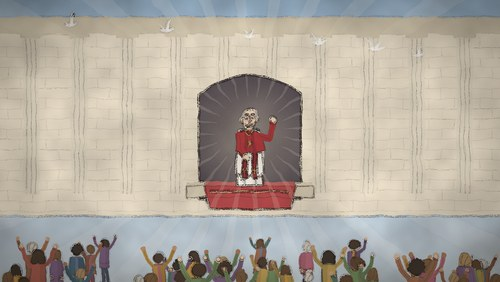
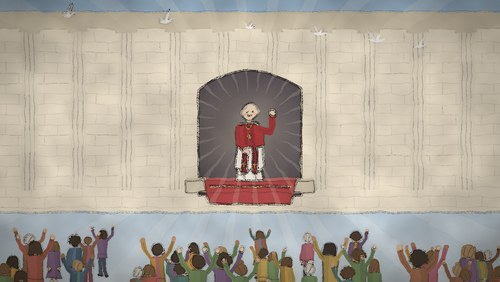
Videoclip: Papa genérico y armónico; lavatorio en plano de manos
- pope(): rostro simple como el resto de los personajes (sin caricatura)
- Lavatorio: primer plano de las manos con el aguamanil dorado, el pie en la jofaina y el paño
- Coliseo, balcón y papamóvil con cámaras más suaves

Claude-Session: https://claude.ai/code/session_017yjxTLj9gP769SUQtoivV1

diff --git a/videoclip/scenes1.js b/videoclip/scenes1.js
@@ -256,42 +256,60 @@
   // ================================================================= E2 · L6a  el siervo de los siervos de Dios (55.5) — Jueves Santo: el lavatorio de los pies
   // (Jueves Santo 2026, San Juan de Letrán: León XIV lavó los pies a 12 sacerdotes con una jarra dorada y un paño blanco)
   S.push({
-    id: 'lavatorio', at: 55.5, cam: { x0: 30, y0: -80, z0: 1.0, x1: -30, y1: -110, z1: 1.08, ease: 'inOutSine' },
+    id: 'lavatorio', at: 55.5, cam: { x0: -20, y0: 10, z0: 1.0, x1: 20, y1: -10, z1: 1.07, ease: 'inOutSine' },
     build() {
-      let cols = '';
-      for (let i = 0; i < 8; i++) { const x = -120 + i * 300; cols += rect(x, 60, 80, 820, '#e9dcc4') + ink(`M${x + 20},70 L${x + 20},880 M${x + 40},70 L${x + 40},880 M${x + 60},70 L${x + 60},880`, 1.2, .3) + rect(x - 14, 50, 108, 30, '#d8c8a8') + (i < 7 ? path(`M${x + 80},300 Q${x + 190},160 ${x + 300},300 L${x + 300},320 Q${x + 190},185 ${x + 80},320Z`, '#d8c8a8') : ''); }
-      let wins = ''; for (let i = 0; i < 7; i++) wins += windowBox(70 + i * 300, 110, 70, 150, { glass: '#f7d98a', frame: '#e9dcc4', arch: true });
-      // sacerdotes en los bancos del fondo (esperan su turno)
-      const pews = [...Array(12)].map((_, i) => person(-120 + i * 190, 900, 250, { color: '#f7f4ee', robe: true, pose: 'pray', skin: C.skin[i % 5], hair: C.hair[i % 6], style: ['short', 'bald', 'short', 'curly'][i % 4] })).join('') +
-        rect(-300, 800, W + 600, 30, '#7a5534') + rect(-300, 830, W + 600, 120, '#8a6040') + ink('M-300,800 L2220,800 M-300,830 L2220,830', 1.8, .6);
-      // sacerdote sentado de perfil, con el pie descalzo sobre la jofaina
-      const alb = 'M548,600 Q575,548 628,552 Q668,566 676,640 L672,776 L790,772 Q812,776 814,800 L842,958 L792,966 L770,826 L548,832Z';
-      const priest = rect(470, 520, 26, 330, '#7a5534') + rect(470, 820, 250, 22, '#7a5534') + rect(480, 842, 16, 150, '#5a3b26') + rect(700, 842, 16, 150, '#5a3b26') +
-        path(alb, '#f7f4ee') + path('M640,560 Q668,566 676,640 L672,776 L700,776 L700,640Z', '#e3ddd1', 'opacity=".7"') + ink(alb, 1.8, .6) + ink('M600,620 Q590,720 600,820 M700,790 Q760,800 800,960', 1.3, .4) +
-        ellipse(842, 978, 42, 13, C.skin[1]) + ink('M806,978 q36,-16 76,-2', 1.4, .6) + rect(590, 500, 30, 60, C.skin[1]) +
-        circle(606, 470, 46, C.skin[1]) + path('M562,468 Q560,418 606,414 Q650,414 652,450 Q620,432 592,446 Q576,460 562,468Z', C.hair[0]) + path('M650,470 L668,486 L650,494Z', C.skin[1]) + circle(630, 462, 3, INK) + ink('M628,500 q10,4 18,-2', 1.4, .6) +
-        poly([[620, 610], [660, 700], [730, 760]], '#f7f4ee', 30) + circle(740, 762, 16, C.skin[1]);
-      const basin = ellipse(860, 1000, 150, 40, '#c9a24a') + ellipse(860, 988, 130, 28, '#8fb8d8') + ink('M710,1000 Q860,1070 1010,1000', 2, .6) + ink('M760,990 q20,-6 40,0 M880,996 q20,-6 40,0', 1.4, .5);
-      return layer(0, rect(-300, -300, W + 600, H + 600, '#b89a70') + glow(960, 200, 1000, '#ffe6b0', .8)) +
-        layer(.15, wins + `<g id="lbeams">${rays(960, -300, 200, 1800, 10, '#fff4d0', .16, 4)}</g>`) +
-        layer(.3, paper(cols) + rect(-300, 870, W + 600, 400, '#c9b28a')) +
-        layer(.5, pews) +
-        layer(.85, rect(-300, 950, W + 600, 300, '#c9b28a') + [...Array(6)].map((_, i) => ink(`M-300,${960 + i * 24} L2220,${960 + i * 24}`, 1.2, .25)).join('') + priest + basin + `<g id="popew"></g>`);
+      const skinP = '#e2b690', skinH = '#f1d3b6';
+      // fondo cálido de la basílica, desenfocado
+      let bokeh = ''; const r = RNG(561);
+      for (let i = 0; i < 26; i++) bokeh += circle(r.range(-200, W + 200), r.range(40, 620), r.range(20, 70), r.pick(['#ffe2a0', '#fff0c8', '#f7c97a']), `opacity="${f1(r.range(.18, .45))}"`);
+      const cols = [...Array(6)].map((_, i) => rect(-100 + i * 380, -100, 110, 900, '#d9c4a0', 'opacity=".55"')).join('');
+      // mantel de lino bajo la jofaina
+      const linen = path('M-300,760 Q960,700 2220,760 L2220,1400 L-300,1400Z', '#f4efe4') + ink('M-300,760 Q960,700 2220,760', 1.6, .4) + [...Array(8)].map((_, i) => ink(`M${-100 + i * 300},${800 + (i % 2) * 20} q60,40 30,120`, 1.2, .25)).join('');
+      // jofaina dorada con agua
+      const basin = ellipse(900, 900, 400, 96, '#c9962e') + ellipse(900, 884, 378, 78, '#e0b040') + ellipse(900, 892, 340, 60, '#9cc6de') + ink('M500,900 Q900,1040 1300,900', 2, .6) + ink('M522,884 Q900,780 1278,884', 1.4, .5) +
+        `<g id="ripples"></g>`;
+      // pierna y pie descalzo del sacerdote (alba blanca arriba)
+      const foot = path('M600,500 Q640,640 676,790 Q640,830 652,872 Q700,900 820,900 Q960,904 1018,892 Q1052,884 1046,862 Q1040,846 1010,846 Q930,842 860,832 Q780,818 752,784 Q724,640 700,500Z', skinP) +
+        ink('M600,500 Q640,640 676,790 Q640,830 652,872 Q700,900 820,900 Q960,904 1018,892 Q1052,884 1046,862 Q1040,846 1010,846 Q930,842 860,832 Q780,818 752,784 Q724,640 700,500', 1.8, .6) +
+        [0, 1, 2, 3].map(i => ink(`M${1010 - i * 20},${850 + i * 2} q6,14 0,30`, 1.3, .45)).join('') + ink('M700,812 q30,10 60,4', 1.2, .4) +
+        path('M520,-200 L760,-200 L780,520 Q740,560 690,540 Q630,560 580,520Z', '#fbf9f3') + ink('M580,520 Q630,560 690,540 Q740,560 780,520 M640,0 Q650,300 630,520 M720,0 Q715,300 740,520', 1.6, .5);
+      // estola dorada del Papa asomando por la derecha
+      const stole = path('M1720,-100 L1820,-100 L1830,700 L1730,700Z', '#e0b040') + cross(1776, 380, 70, '#fbf3d6', 10) + ink('M1720,-100 L1730,700 M1820,-100 L1830,700', 1.6, .6) + ink('M1740,660 L1818,660', 2.4, .6);
+      return layer(0, rect(-300, -300, W + 600, H + 600, '#b8905e') + glow(500, 200, 900, '#ffe6b0', .7)) +
+        layer(.15, cols + bokeh) +
+        layer(.5, linen) +
+        layer(.7, basin + foot) +
+        layer(.9, stole + `<g id="hands"></g>`);
     },
     update(t, u, p, s) {
-      const pour = (Math.sin(u * 2.2) + 1) / 2;
-      const px = 1150, py = 1050, h = 620, uu = h / 100;
-      let g2 = pope(px, py, h, { pose: 'wash', alb: true, turn: .55, flip: true });
-      // jarra dorada en la mano derecha, inclinándose, y el chorro de agua sobre el pie
-      const jx = px - 25.8 * uu - 10, jy = py - 40 * uu - 30 + pour * 8, ang = 20 + pour * 38;
-      g2 += `<g transform="translate(${f1(jx)},${f1(jy)}) rotate(${f1(ang)})">${path('M-24,-44 L24,-44 L30,34 Q0,48 -30,34Z', '#e0b040')}${path('M-24,-38 Q-60,-44 -48,-8', 'none', 'stroke="#c98a1b" stroke-width="8"')}${path('M24,-44 L50,-58 L20,-32Z', '#e0b040')}${ink('M-24,-44 L24,-44 L30,34 Q0,48 -30,34Z', 1.6, .6)}${ink('M-26,-10 L28,-10', 1.2, .4)}</g>`;
-      const sx0 = jx - 40 - pour * 16, sy0 = jy - 50 + pour * 16;
-      if (pour > .3) g2 += path(`M${f1(sx0)},${f1(sy0)} Q${f1(sx0 - 40)},${f1(sy0 + 80)} 850,965`, 'none', `stroke="#d4ebf6" stroke-width="${f1(3 + pour * 7)}" stroke-linecap="round" opacity=".9"`) + [0, 1, 2].map(i => circle(840 + i * 16 + Math.sin(t * 9 + i) * 4, 962 - i * 6, 4, '#d4ebf6', 'opacity=".8"')).join('');
-      // paño blanco sobre el brazo izquierdo
-      const cx = px - 12.2 * uu, cy = py - 26 * uu;
-      g2 += path(`M${f1(cx - 40)},${f1(cy - 20)} L${f1(cx + 30)},${f1(cy - 30)} L${f1(cx + 40)},${f1(cy + 70)} L${f1(cx - 30)},${f1(cy + 80)}Z`, '#fdfbf4') + ink(`M${f1(cx - 40)},${f1(cy - 20)} L${f1(cx + 30)},${f1(cy - 30)} L${f1(cx + 40)},${f1(cy + 70)} L${f1(cx - 30)},${f1(cy + 80)}Z M${f1(cx - 20)},${f1(cy)} L${f1(cx - 14)},${f1(cy + 70)}`, 1.4, .5);
-      q(s, '#popew').innerHTML = g2;
-      q(s, '#lbeams').setAttribute('opacity', f1(.75 + .25 * Math.sin(u * 1.2)));
+      const tilt = (Math.sin(u * 1.9 - 1) + 1) / 2;      // 0 = derecha … 1 = vertiendo
+      const skinH = '#f1d3b6';
+      // brazo derecho con manga blanca y la jarra dorada
+      const jx = 1180 - tilt * 20, jy = 430 + tilt * 20, ang = -8 - tilt * 42;
+      let h = path(`M2300,120 Q1700,240 ${f1(jx + 150)},${f1(jy - 30)} L${f1(jx + 170)},${f1(jy + 80)} Q1760,380 2300,380Z`, '#fbf9f3') + ink(`M2300,120 Q1700,240 ${f1(jx + 150)},${f1(jy - 30)} M${f1(jx + 170)},${f1(jy + 80)} Q1760,380 2300,380 M1900,200 q-40,60 -20,120`, 1.8, .55);
+      const ewer = 'M-34,-104 Q-38,-60 -78,-14 Q-102,40 -70,92 Q0,132 70,92 Q102,40 78,-14 Q38,-60 34,-104Z';
+      h += `<g transform="translate(${f1(jx)},${f1(jy)}) rotate(${f1(ang)})">` +
+        path(ewer, '#e0b040') + path('M-34,-100 Q-90,-116 -132,-150 Q-104,-104 -40,-78Z', '#d9a73a') + ellipse(0, -106, 38, 10, '#c98a1b') +
+        path('M64,-60 Q150,-50 120,52', 'none', 'stroke="#c98a1b" stroke-width="16" stroke-linecap="round"') +
+        ink(ewer, 2, .65) + ink('M-34,-100 Q-90,-116 -132,-150 Q-104,-104 -40,-78', 1.6, .6) + ink('M-84,20 Q0,44 84,20 M-72,-20 Q0,0 72,-20', 1.3, .4) +
+        path('M-30,40 Q-10,20 20,34', 'none', 'stroke="#fff3c8" stroke-width="6" opacity=".6" stroke-linecap="round"') +
+        ellipse(132, 0, 42, 34, skinH) + [0, 1, 2, 3].map(i => `<rect x="${96 + i * 4}" y="${-32 + i * 18}" width="46" height="17" rx="8.5" fill="${skinH}"/>`).join('') + ink('M94,-34 q40,-8 80,18 M98,44 q40,10 70,-10', 1.4, .5) + '</g>';
+      const ca = Math.cos(ang * Math.PI / 180), sa = Math.sin(ang * Math.PI / 180);
+      // chorro de agua y gotas
+      const sp = [jx + ca * -132 - sa * -150, jy + sa * -132 + ca * -150];
+      if (tilt > .25) {
+        const w = 6 + (tilt - .25) * 16;
+        h += path(`M${f1(sp[0])},${f1(sp[1])} Q${f1(sp[0] - 60)},${f1(sp[1] + 160)} 880,828`, 'none', `stroke="#d9eef8" stroke-width="${f1(w)}" stroke-linecap="round" opacity=".92"`) +
+          path(`M${f1(sp[0] + 4)},${f1(sp[1] + 6)} Q${f1(sp[0] - 52)},${f1(sp[1] + 160)} 886,824`, 'none', 'stroke="#ffffff" stroke-width="2" opacity=".8"');
+        for (let i = 0; i < 7; i++) { const a2 = t * 6 + i * 1.3, k = (a2 % 1); h += circle(860 + Math.cos(i * 2.1) * (20 + k * 60), 830 - Math.sin(k * 3.14) * 40, 5 - k * 3, '#d9eef8', `opacity="${f1(1 - k)}"`); }
+      }
+      // mano izquierda con el paño blanco
+      const cy = 740 + Math.sin(u * 1.4) * 6;
+      h += path(`M2300,980 Q1700,900 1330,${f1(cy + 30)} L1320,${f1(cy + 120)} Q1700,1040 2300,1180Z`, '#fbf9f3') + ink(`M2300,980 Q1700,900 1330,${f1(cy + 30)} M1320,${f1(cy + 120)} Q1700,1040 2300,1180`, 1.8, .55) +
+        ellipse(1270, cy + 70, 70, 44, skinH) + path(`M1140,${f1(cy)} L1330,${f1(cy - 20)} L1350,${f1(cy + 140)} Q1250,${f1(cy + 190)} 1150,${f1(cy + 160)}Z`, '#ffffff') + ink(`M1140,${f1(cy)} L1330,${f1(cy - 20)} L1350,${f1(cy + 140)} Q1250,${f1(cy + 190)} 1150,${f1(cy + 160)}Z M1180,${f1(cy + 10)} Q1200,${f1(cy + 90)} 1170,${f1(cy + 160)} M1260,${f1(cy)} Q1280,${f1(cy + 90)} 1260,${f1(cy + 170)}`, 1.4, .5);
+      q(s, '#hands').innerHTML = h;
+      let rp = ''; for (let i = 0; i < 3; i++) { const k = ((u * .8 + i / 3) % 1); rp += ellipse(880, 870, 40 + k * 220, 8 + k * 36, 'none', `stroke="#ffffff" stroke-width="2" opacity="${f1((1 - k) * .7 * (tilt > .25 ? 1 : .3))}"`); }
+      q(s, '#ripples').innerHTML = rp;
     },
   });
 
@@ -312,11 +330,11 @@
         layer(1, rect(-300, 1000, W + 600, 300, '#141627'));
     },
     update(t, u, p, s) {
-      const k = u / 7, x = 900 + k * 90, y = 1010 + k * 30, h = 470 + k * 60, bob = Math.abs(Math.sin(u * 2.2)) * -5;
+      const k = u / 7, x = 900 + k * 80, y = 990 + k * 20, h = 360 + k * 40, bob = Math.abs(Math.sin(u * 2.2)) * -4;
       const torch = (tx, ty, th, i) => person(tx, ty, th, { color: '#2b2f48', robe: true, pose: 'reach', skin: C.skin[i], hair: C.hair[i], flip: i === 1 }) +
         line(tx + (i === 1 ? -1 : 1) * th * .24, ty - th * .72, tx + (i === 1 ? -1 : 1) * th * .28, ty - th * 1.05, '#6b4630', 6) +
         glow(tx + (i === 1 ? -1 : 1) * th * .28, ty - th * 1.1, 90, '#ffb84a', .8) + path(`M${f1(tx + (i === 1 ? -1 : 1) * th * .28 - 12)},${f1(ty - th * 1.05)} Q${f1(tx + (i === 1 ? -1 : 1) * th * .28 + Math.sin(t * 9 + i) * 6)},${f1(ty - th * 1.2)} ${f1(tx + (i === 1 ? -1 : 1) * th * .28 + 12)},${f1(ty - th * 1.05)}Z`, '#ffcf5a');
-      q(s, '#walk').innerHTML = torch(x - 330, y - 30, 380, 0) + torch(x + 320, y - 30, 380, 1) + `<g transform="translate(0 ${f1(bob)})">${pope(x, y, h, { pose: 'carry', turn: .25 })}</g>` + glow(x, y - h * .6, 420, '#ffd89a', .18);
+      q(s, '#walk').innerHTML = torch(x - 260, y - 30, 310, 0) + torch(x + 250, y - 30, 310, 1) + `<g transform="translate(0 ${f1(bob)})">${pope(x, y, h, { pose: 'carry', turn: .25 })}</g>` + glow(x, y - h * .6, 420, '#ffd89a', .18);
       qa(s, '.cd').forEach((c, i) => c.setAttribute('opacity', f1(.75 + .25 * Math.sin(t * 7 + i * 1.7))));
     },
   });
@@ -368,7 +386,7 @@
 
   // ================================================================= E2 · L8  a escuchar al peregrino de la paz (66.8)
   S.push({
-    id: 'balcon', at: 66.8, cam: { x0: 0, y0: 40, z0: 1.0, x1: 0, y1: 90, z1: 1.75, ease: 'inOutSine' },
+    id: 'balcon', at: 66.8, cam: { x0: 0, y0: 40, z0: 1.0, x1: 0, y1: 110, z1: 1.35, ease: 'inOutSine' },
     build() {
       let cols = '';
       for (let i = 0; i < 10; i++) cols += rect(160 + i * 170, 120, 56, 560, '#e9dfcc') + ink(`M${172 + i * 170},130 L${172 + i * 170},680 M${188 + i * 170},130 L${188 + i * 170},680 M${204 + i * 170},130 L${204 + i * 170},680`, 1.2, .3) + rect(150 + i * 170, 110, 76, 22, '#d8ccb4');

diff --git a/videoclip/lib.js b/videoclip/lib.js
@@ -276,7 +276,7 @@ function pope(x, y, h, o = {}) {
   const u = h / 100, pose = o.pose || 'stand', turn = o.turn || 0, kneel = pose === 'wash';
   const skin = '#f1d3b6', white = '#f8f6f0', whiteD = '#e3ddd1', gold = '#e0b040', grey = '#b8b4ae';
   const dy = kneel ? 26 * u : 0;
-  const hy = y - 89 * u + dy, hr = 9.4 * u, sy = y - 75 * u + dy, sx = 11.8 * u, waist = y - 47 * u + dy;
+  const hy = y - 90 * u + dy, hr = 8.5 * u, sy = y - 76 * u + dy, sx = 11.8 * u, waist = y - 47 * u + dy;
   const iw = Math.max(1, u * .85);
   let s = '';
   // --- túnica (sotana o alba)
@@ -327,31 +327,18 @@ function pope(x, y, h, o = {}) {
   const fx = turn * hr * .32;                         // desplazamiento de rasgos al girar
   let hd = rect(x - 3 * u, hy + hr * .75, 6 * u, 5 * u, shade(skin, -.08));
   hd += ellipse(x - hr * .92 + fx * .3, hy + 1 * u, 1.9 * u, 3 * u, shade(skin, -.08)) + ellipse(x + hr * .92 + fx * .3, hy + 1 * u, 1.9 * u, 3 * u, shade(skin, -.08));
-  const faceD = `M${f1(x - hr * .86)},${f1(hy - hr * .2)} Q${f1(x - hr * .9)},${f1(hy - hr * 1.12)} ${f1(x)},${f1(hy - hr * 1.12)} Q${f1(x + hr * .9)},${f1(hy - hr * 1.12)} ${f1(x + hr * .86)},${f1(hy - hr * .2)} Q${f1(x + hr * .82)},${f1(hy + hr * .75)} ${f1(x + hr * .45)},${f1(hy + hr * 1.08)} Q${f1(x)},${f1(hy + hr * 1.28)} ${f1(x - hr * .45)},${f1(hy + hr * 1.08)} Q${f1(x - hr * .82)},${f1(hy + hr * .75)} ${f1(x - hr * .86)},${f1(hy - hr * .2)}Z`;
-  hd += path(faceD, skin) + ink(faceD, iw * .8, .5);
+  hd += circle(x, hy, hr, skin) + ink(`M${f1(x - hr)},${f1(hy)} A${f1(hr)},${f1(hr)} 0 1 0 ${f1(x + hr)},${f1(hy)} A${f1(hr)},${f1(hr)} 0 1 0 ${f1(x - hr)},${f1(hy)}`, iw * .8, .4);
   // pelo gris corto a los costados y ralo arriba (frente alta)
   hd += path(`M${f1(x - hr * .9)},${f1(hy + hr * .15)}Q${f1(x - hr * 1.0)},${f1(hy - hr * .7)} ${f1(x - hr * .45)},${f1(hy - hr * .78)}L${f1(x - hr * .55)},${f1(hy - hr * .35)}Q${f1(x - hr * .8)},${f1(hy - hr * .2)} ${f1(x - hr * .82)},${f1(hy + hr * .15)}Z`, grey) +
         path(`M${f1(x + hr * .9)},${f1(hy + hr * .15)}Q${f1(x + hr * 1.0)},${f1(hy - hr * .7)} ${f1(x + hr * .45)},${f1(hy - hr * .78)}L${f1(x + hr * .55)},${f1(hy - hr * .35)}Q${f1(x + hr * .8)},${f1(hy - hr * .2)} ${f1(x + hr * .82)},${f1(hy + hr * .15)}Z`, grey) +
         ink(`M${f1(x - hr * .4)},${f1(hy - hr * .95)} q${f1(hr * .2)},${f1(-hr * .08)} ${f1(hr * .4)},0 M${f1(x - hr * .05)},${f1(hy - hr * 1.0)} q${f1(hr * .2)},${f1(-hr * .06)} ${f1(hr * .4)},${f1(hr * .03)}`, iw * .7, .4);
   // solideo blanco en la coronilla
   hd += path(`M${f1(x - hr * .62)},${f1(hy - hr * .78)}Q${f1(x)},${f1(hy - hr * 1.42)} ${f1(x + hr * .62)},${f1(hy - hr * .78)}Q${f1(x)},${f1(hy - hr * .98)} ${f1(x - hr * .62)},${f1(hy - hr * .78)}Z`, '#fbfaf6') + ink(`M${f1(x - hr * .62)},${f1(hy - hr * .78)} Q${f1(x)},${f1(hy - hr * 1.42)} ${f1(x + hr * .62)},${f1(hy - hr * .78)}`, iw * .7, .5);
-  if (!o.back) {
-    const ex = hr * .34, ey = hy - hr * .05;
-    // cejas arqueadas grises
-    hd += ink(`M${f1(x + fx - ex - hr * .2)},${f1(ey - hr * .32)} Q${f1(x + fx - ex)},${f1(ey - hr * .46)} ${f1(x + fx - ex + hr * .2)},${f1(ey - hr * .33)} M${f1(x + fx + ex - hr * .2)},${f1(ey - hr * .33)} Q${f1(x + fx + ex)},${f1(ey - hr * .46)} ${f1(x + fx + ex + hr * .2)},${f1(ey - hr * .32)}`, iw * 1.1, .75);
-    // anteojos finos rectangulares
-    const gw = hr * .5, gh = hr * .32;
-    hd += `<g fill="none" stroke="#6d6a66" stroke-width="${f1(Math.max(.9, u * .55))}">` +
-      `<rect x="${f1(x + fx - ex - gw / 2)}" y="${f1(ey - gh / 2)}" width="${f1(gw)}" height="${f1(gh)}" rx="${f1(gh * .3)}"/><rect x="${f1(x + fx + ex - gw / 2)}" y="${f1(ey - gh / 2)}" width="${f1(gw)}" height="${f1(gh)}" rx="${f1(gh * .3)}"/>` +
-      `<path d="M${f1(x + fx - ex + gw / 2)},${f1(ey - gh * .1)} Q${f1(x + fx)},${f1(ey - gh * .45)} ${f1(x + fx + ex - gw / 2)},${f1(ey - gh * .1)} M${f1(x + fx - ex - gw / 2)},${f1(ey - gh * .2)} L${f1(x - hr * .86)},${f1(ey - gh * .35)} M${f1(x + fx + ex + gw / 2)},${f1(ey - gh * .2)} L${f1(x + hr * .86)},${f1(ey - gh * .35)}"/></g>`;
-    // ojos
-    hd += circle(x + fx - ex, ey + gh * .05, Math.max(.8, hr * .07), INK, 'opacity=".85"') + circle(x + fx + ex, ey + gh * .05, Math.max(.8, hr * .07), INK, 'opacity=".85"');
-    // nariz larga y recta
-    hd += ink(`M${f1(x + fx * 1.1 + hr * .05)},${f1(ey + gh * .1)} L${f1(x + fx * 1.35 + hr * .1)},${f1(hy + hr * .46)}`, iw, .65) + ink(`M${f1(x + fx * 1.3 - hr * .12)},${f1(hy + hr * .5)} Q${f1(x + fx * 1.3)},${f1(hy + hr * .56)} ${f1(x + fx * 1.3 + hr * .13)},${f1(hy + hr * .48)}`, iw * .9, .6);
-    // sonrisa amplia con arrugas de risa
-    hd += ink(`M${f1(x + fx - hr * .4)},${f1(hy + hr * .7)} Q${f1(x + fx)},${f1(hy + hr * .94)} ${f1(x + fx + hr * .4)},${f1(hy + hr * .7)}`, iw * 1.1, .8) +
-      ink(`M${f1(x + fx - hr * .52)},${f1(hy + hr * .5)} q${f1(-hr * .06)},${f1(hr * .12)} 0,${f1(hr * .24)} M${f1(x + fx + hr * .52)},${f1(hy + hr * .5)} q${f1(hr * .06)},${f1(hr * .12)} 0,${f1(hr * .24)}`, iw * .7, .5) +
-      circle(x + fx - hr * .5, hy + hr * .35, hr * .15, '#e7967f', 'opacity=".3"') + circle(x + fx + hr * .5, hy + hr * .35, hr * .15, '#e7967f', 'opacity=".3"');
+  if (!o.back && h > 120) {  // rostro simple, igual que el resto de los personajes del cuaderno
+    const e = hr * .3, ey = hy + hr * .02 + (fx ? 0 : 0);
+    hd += circle(x + fx - e, ey, Math.max(.7, hr * .075), INK, 'opacity=".75"') + circle(x + fx + e, ey, Math.max(.7, hr * .075), INK, 'opacity=".75"') +
+      ink(`M${f1(x + fx - hr * .28)},${f1(hy + hr * .42)} Q${f1(x + fx)},${f1(hy + hr * .62)} ${f1(x + fx + hr * .28)},${f1(hy + hr * .42)}`, iw * .7, .7) +
+      circle(x + fx - hr * .55, hy + hr * .35, hr * .16, '#e88f7a', 'opacity=".35"') + circle(x + fx + hr * .55, hy + hr * .35, hr * .16, '#e88f7a', 'opacity=".35"');
   }
   s += hd + armsSvg;
   if (pose === 'carry' && o.cross !== false) s = `<g transform="translate(${f1(x + 10 * u)},${f1(sy - 6 * u)}) rotate(24)">${rect(-2.6 * u, -12 * u, 5.2 * u, 88 * u, '#8a6040')}${rect(-18 * u, 4 * u, 36 * u, 5 * u, '#8a6040')}${ink(`M${f1(-2.6 * u)},${f1(-12 * u)} l0,${f1(88 * u)} M${f1(2.6 * u)},${f1(-12 * u)} l0,${f1(88 * u)} M${f1(-18 * u)},${f1(4 * u)} l${f1(36 * u)},0`, iw, .6)}</g>` + s;
